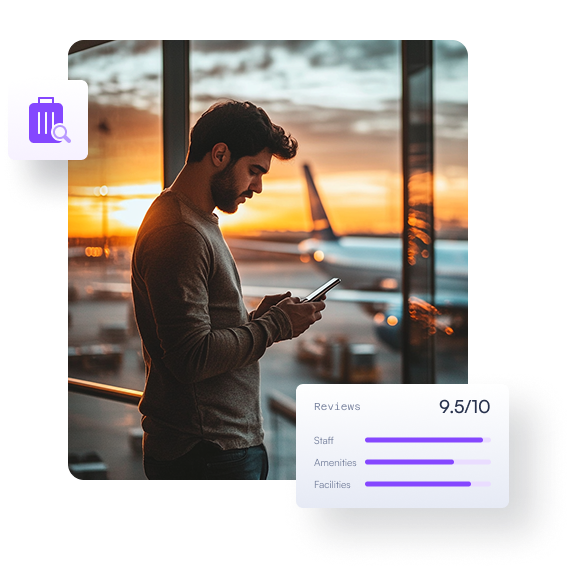
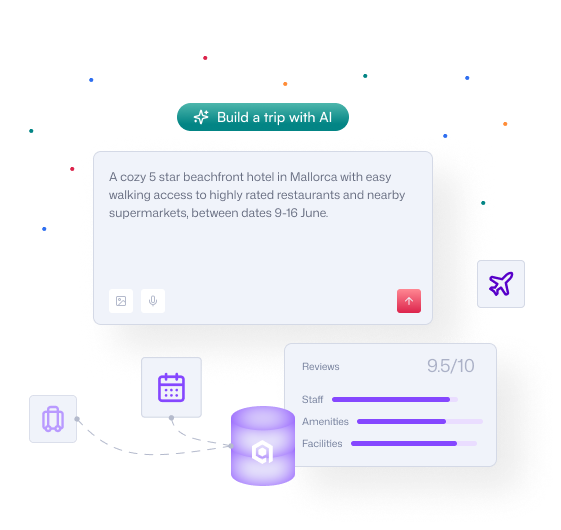
replace branches hero images

diff --git a/qdrant-landing/themes/qdrant-2024/assets/css/partials/_legal-tech-hero.scss b/qdrant-landing/themes/qdrant-2024/assets/css/partials/_legal-tech-hero.scss
@@ -69,9 +69,13 @@
 
     img {
       position: relative;
+      z-index: 1;
       display: block;
       width: 100%;
-      max-width: pxToRem(560);
+      max-width: pxToRem(395);
+      height: auto;
+      object-fit: contain;
+      object-position: right top;
       margin-right: -$spacer * 1.5;
       margin-bottom: -$spacer * 1.5;
     }
@@ -80,6 +84,10 @@
   @include media-breakpoint-up(lg) {
     padding-top: $spacer * 5;
     padding-bottom: $spacer * 5;
+
+    &__content {
+      max-width: pxToRem(560);
+    }
 
     &__title {
       font-size: $spacer * 3;
@@ -93,29 +101,36 @@
       &-square-grid {
         display: block;
         position: absolute;
-        width: pxToRem(686);
-        height: pxToRem(480);
-        right: -24%;
-        top: -3%;
+        width: min(100%, pxToRem(686));
+        aspect-ratio: 800 / 560;
+        right: 0;
+        top: -$spacer * 1.5;
         background-image: url('/img/legal-tech-hero-grid.svg');
-        background-size: 100%;
+        background-size: cover;
         background-position: center;
         background-repeat: no-repeat;
         z-index: 0;
       }
 
       img {
-        width: 110%;
+        width: 100%;
+        max-width: pxToRem(395);
+        height: auto;
+        object-fit: contain;
+        object-position: right top;
       }
     }
   }
 
   @include media-breakpoint-up(xl) {
+    &__content {
+      max-width: pxToRem(634);
+    }
+
     &__preview {
       &-square-grid {
-        width: pxToRem(800);
-        height: pxToRem(560);
-        top: -5%;
+        width: min(100%, pxToRem(800));
+        aspect-ratio: 1 / 1;
       }
     }
   }

diff --git a/qdrant-landing/themes/qdrant-2024/layouts/partials/legal-tech-hero.html b/qdrant-landing/themes/qdrant-2024/layouts/partials/legal-tech-hero.html
@@ -1,7 +1,7 @@
 <section class="legal-tech-hero">
   <div class="container">
     <div class="row justify-content-lg-between align-items-lg-center">
-      <div class="col-12 col-lg-6 legal-tech-hero__content">
+      <div class="col-12 col-lg-7 legal-tech-hero__content">
         <div class="legal-tech-hero__tag">
           <img class="legal-tech-hero__tag-icon" src="{{ .Params.tag.icon.src }}" alt="{{ .Params.tag.icon.alt }}" />
           <p class="legal-tech-hero__tag-name">{{ .Params.tag.name }}</p>
@@ -17,7 +17,7 @@
           </a>
         </div>
       </div>
-      <div class="col-12 col-lg-6 legal-tech-hero__preview">
+      <div class="col-12 col-lg-5 legal-tech-hero__preview">
         <div class="legal-tech-hero__preview-square-grid"></div>
         <img src="{{ .Params.image.src }}" alt="{{ .Params.image.alt }}" />
       </div>

diff --git a/qdrant-landing/content/e-commerce/hero.md b/qdrant-landing/content/e-commerce/hero.md
@@ -4,7 +4,7 @@ tag:
   icon: 
     src: /icons/outline/cart-teal.svg
     alt: Shopping Cart
-title: AI-Powered Vector Search for Smarter <span class="text-nowrap">Shopping & Personalized</span> E-Commerce
+title: AI-Powered Vector Search for Smarter Shopping & Personalized E-Commerce
 description: Drive conversions with AI-powered vector search that delivers hyper-relevant product discovery, personalized recommendations, and fraud detection—all powered by Qdrant’s enterprise-grade vector search.
 startFree:
   text: Get Started